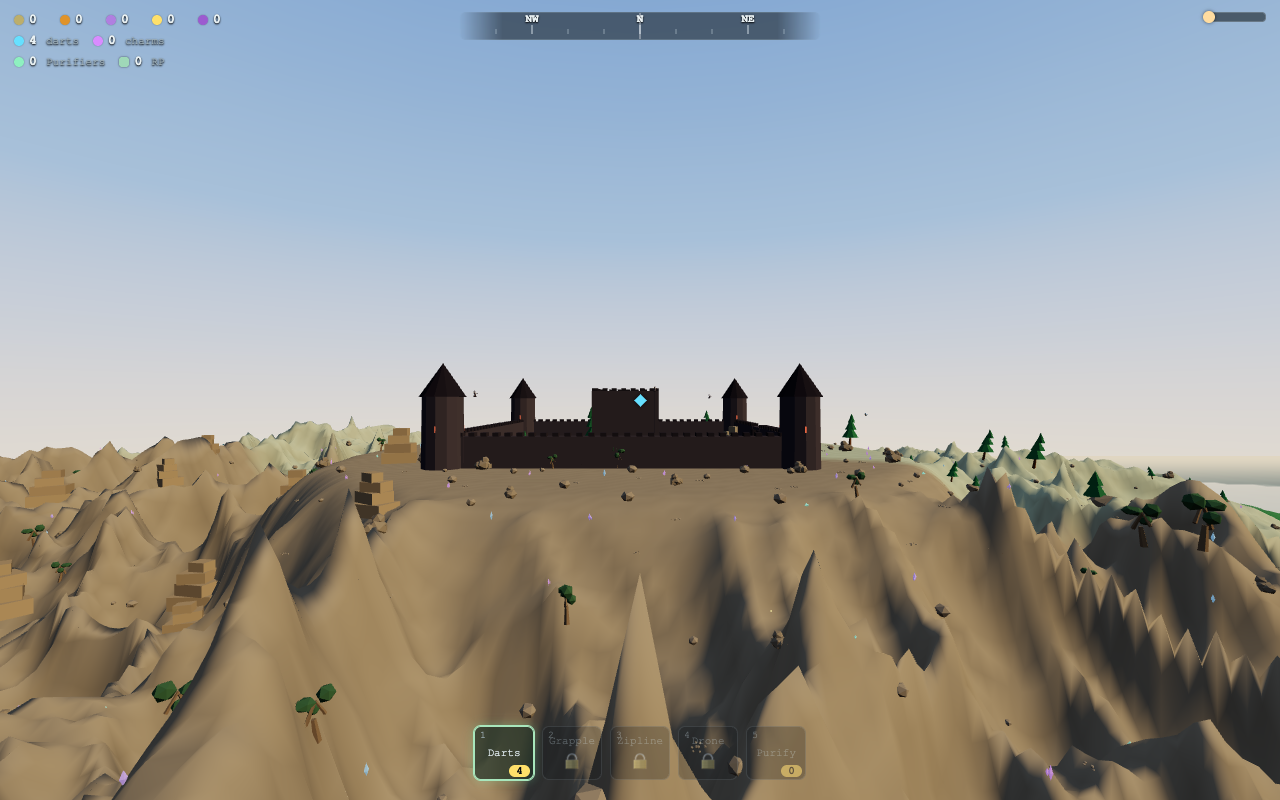
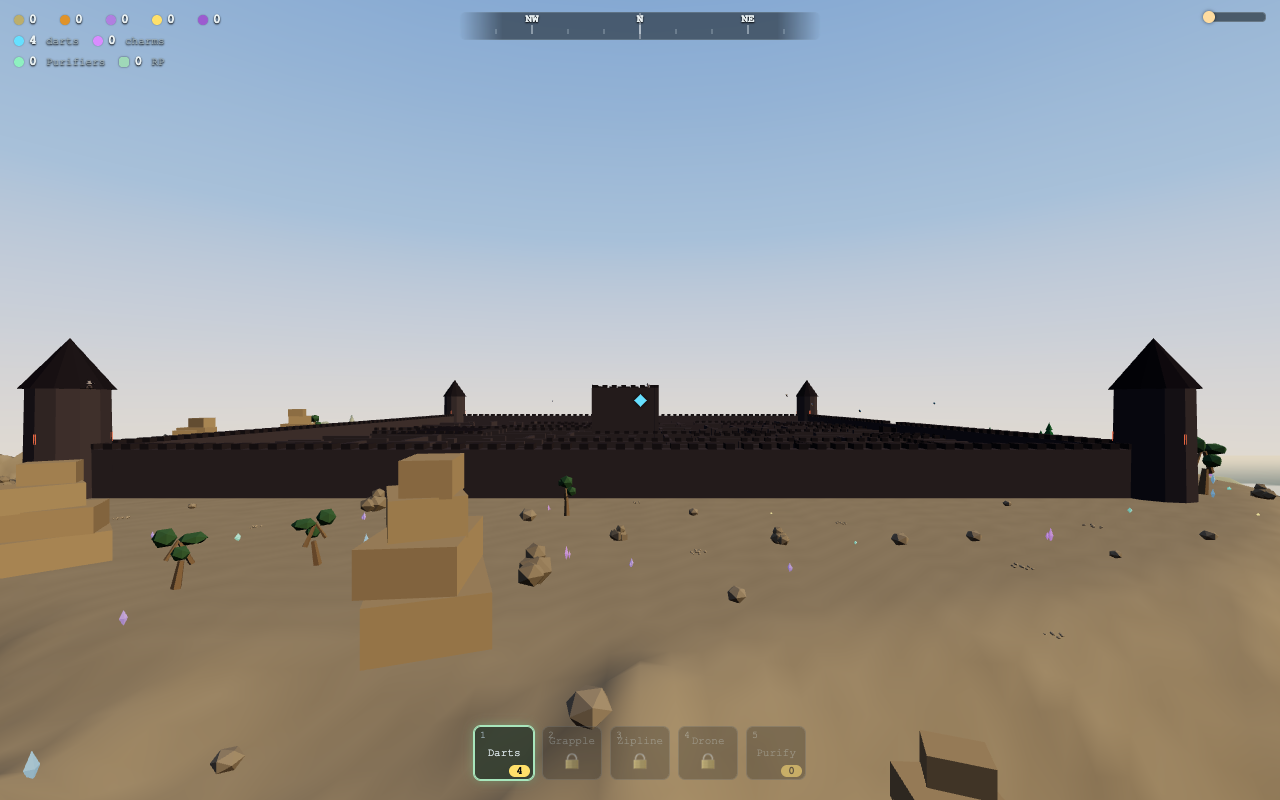
test(e2e): ward maze checks + screenshot refresh
Add checkWardMaze (corridor + hall-entry inHall assertions) and
checkWardElves (setElves + plaza elfCount) to the e2e gauntlet, bump the
gargoyle-detection radius for the Task 2 castle resize, and refresh all
verify screenshots. Also fixes two stale comments left over from the ward
work (ELF doc contradiction, goblin-count "8" drift) and logs the
remaining deferred cleanups in FOLLOWUPS.md.

diff --git a/src/core/constants.ts b/src/core/constants.ts
@@ -1287,11 +1287,9 @@ export const GOBLIN = {
 /**
  * Elves (Cursed Castle Task 12): happy, persistent castle residents. Purified
  * goblins become elves (wiring lives in the NEXT task — this block only tunes
- * the pure placement math + wander/dance FSM in `src/castle/elves.ts`). Homes
- * sit on a golden-angle spiral around `CASTLE.center` (see `elfHomePosition`),
- * radius growing from 8 m toward `CASTLE.half` so residents settle inside/near
- * the courtyard rather than out at `CASTLE.regionR`. Distances in m, speeds
- * m/s, times s — mirrors the shape of `src/village/npcs.ts`'s local `AI` block.
+ * the pure placement math + wander/dance FSM in `src/castle/elves.ts`).
+ * Distances in m, speeds m/s, times s — mirrors the shape of
+ * `src/village/npcs.ts`'s local `AI` block.
  *
  * Castle Ward Task 6: homes retarget to the 3 ward plazas (round-robin, a
  * per-plaza golden-angle mini-spiral — see `elfHomePosition`) instead of the

diff --git a/src/castle/system.ts b/src/castle/system.ts
@@ -55,7 +55,7 @@ export class CastleSystem {
    * Deliberately NOT inferred from `nightManaged.size` — once Task 12 wires
    * `purifyGoblin`, purifying every remaining night goblin before dawn would
    * empty `nightManaged` while `want` is still true, and a size-based check
-   * would misread that as "haven't spawned yet" and respawn a fresh 8 mid-
+   * would misread that as "haven't spawned yet" and respawn a fresh ring mid-
    * night. This flag only flips back to false on the presence's OWN falling
    * edge (`want` going false), so a fully-purified night stays clear until
    * the next dusk.

diff --git a/FOLLOWUPS.md b/FOLLOWUPS.md
@@ -48,6 +48,38 @@ Constants sanity-checked (numbers hold up, no change made):
 - Giant-tree frequency (`PROPS.treeTiers`, cumulative `p: 1.0` after `0.95`) =
   5% — matches the brief's target.
 
+## Castle ward fast-follows
+
+Deferred minors noted while building the Castle Ward maze (Tasks 1-7). None
+block ship; listed here so they aren't lost.
+
+- **Near-query Set-dedup allocation churn** (`castle/ward.ts` `queryNear`):
+  every `wardObstaclesNear`/`wardGrappleNear` call allocates a fresh `Set` +
+  output array to dedupe circles that live in multiple hash buckets (a circle
+  whose disc spans a bucket boundary is inserted into every bucket it
+  overlaps). A single-bucket-per-circle scheme (bucket by center only, widen
+  the 3x3 scan by the max circle radius instead) would avoid both the
+  per-call `Set` and the duplicate insertion, at the cost of a slightly wider
+  scan radius.
+- **Junction stride-cap inline constant** (`castle/ward.ts` `parseWard`,
+  `const stride = junctionCount < 40 ? 1 : 2;`): the `40` threshold and the
+  resulting `1`/`2` stride are inline magic numbers rather than named
+  `WARD`/local constants — harmless today (the real 36x36 map's junction
+  count is comfortably on one side of the threshold), but worth naming if the
+  map is ever resized or re-authored.
+- **Goblin patrol overlap at adjacent junctions** (`castle/goblins.ts`
+  zone-homing, `GOBLIN.patrolR` = 8): two goblins homed to adjacent
+  corridor-junction zones can have overlapping patrol circles where junctions
+  sit close together in the hand-authored map, so their patrol loops can
+  visibly cross. Not a bug (goblins don't collide with each other), just a
+  minor "personal space" nit a future pass could stagger.
+- **One-frame lag on hall entry** (carried over from Task 5, still present):
+  `state().inHall` — and the `movementCeiling`/grapple-suppression gate it
+  drives — is computed once per sim step from the player's position that
+  step, so crossing a hall doorway boundary takes effect on the frame after
+  the crossing rather than instantaneously. Imperceptible at frame rate; not
+  worth the complexity of a sub-step boundary check.
+
 ## Deliberately kept
 
 - **Prismhorse tri budget / LOD** (`critters/models.ts`): the 16-legged crystal
